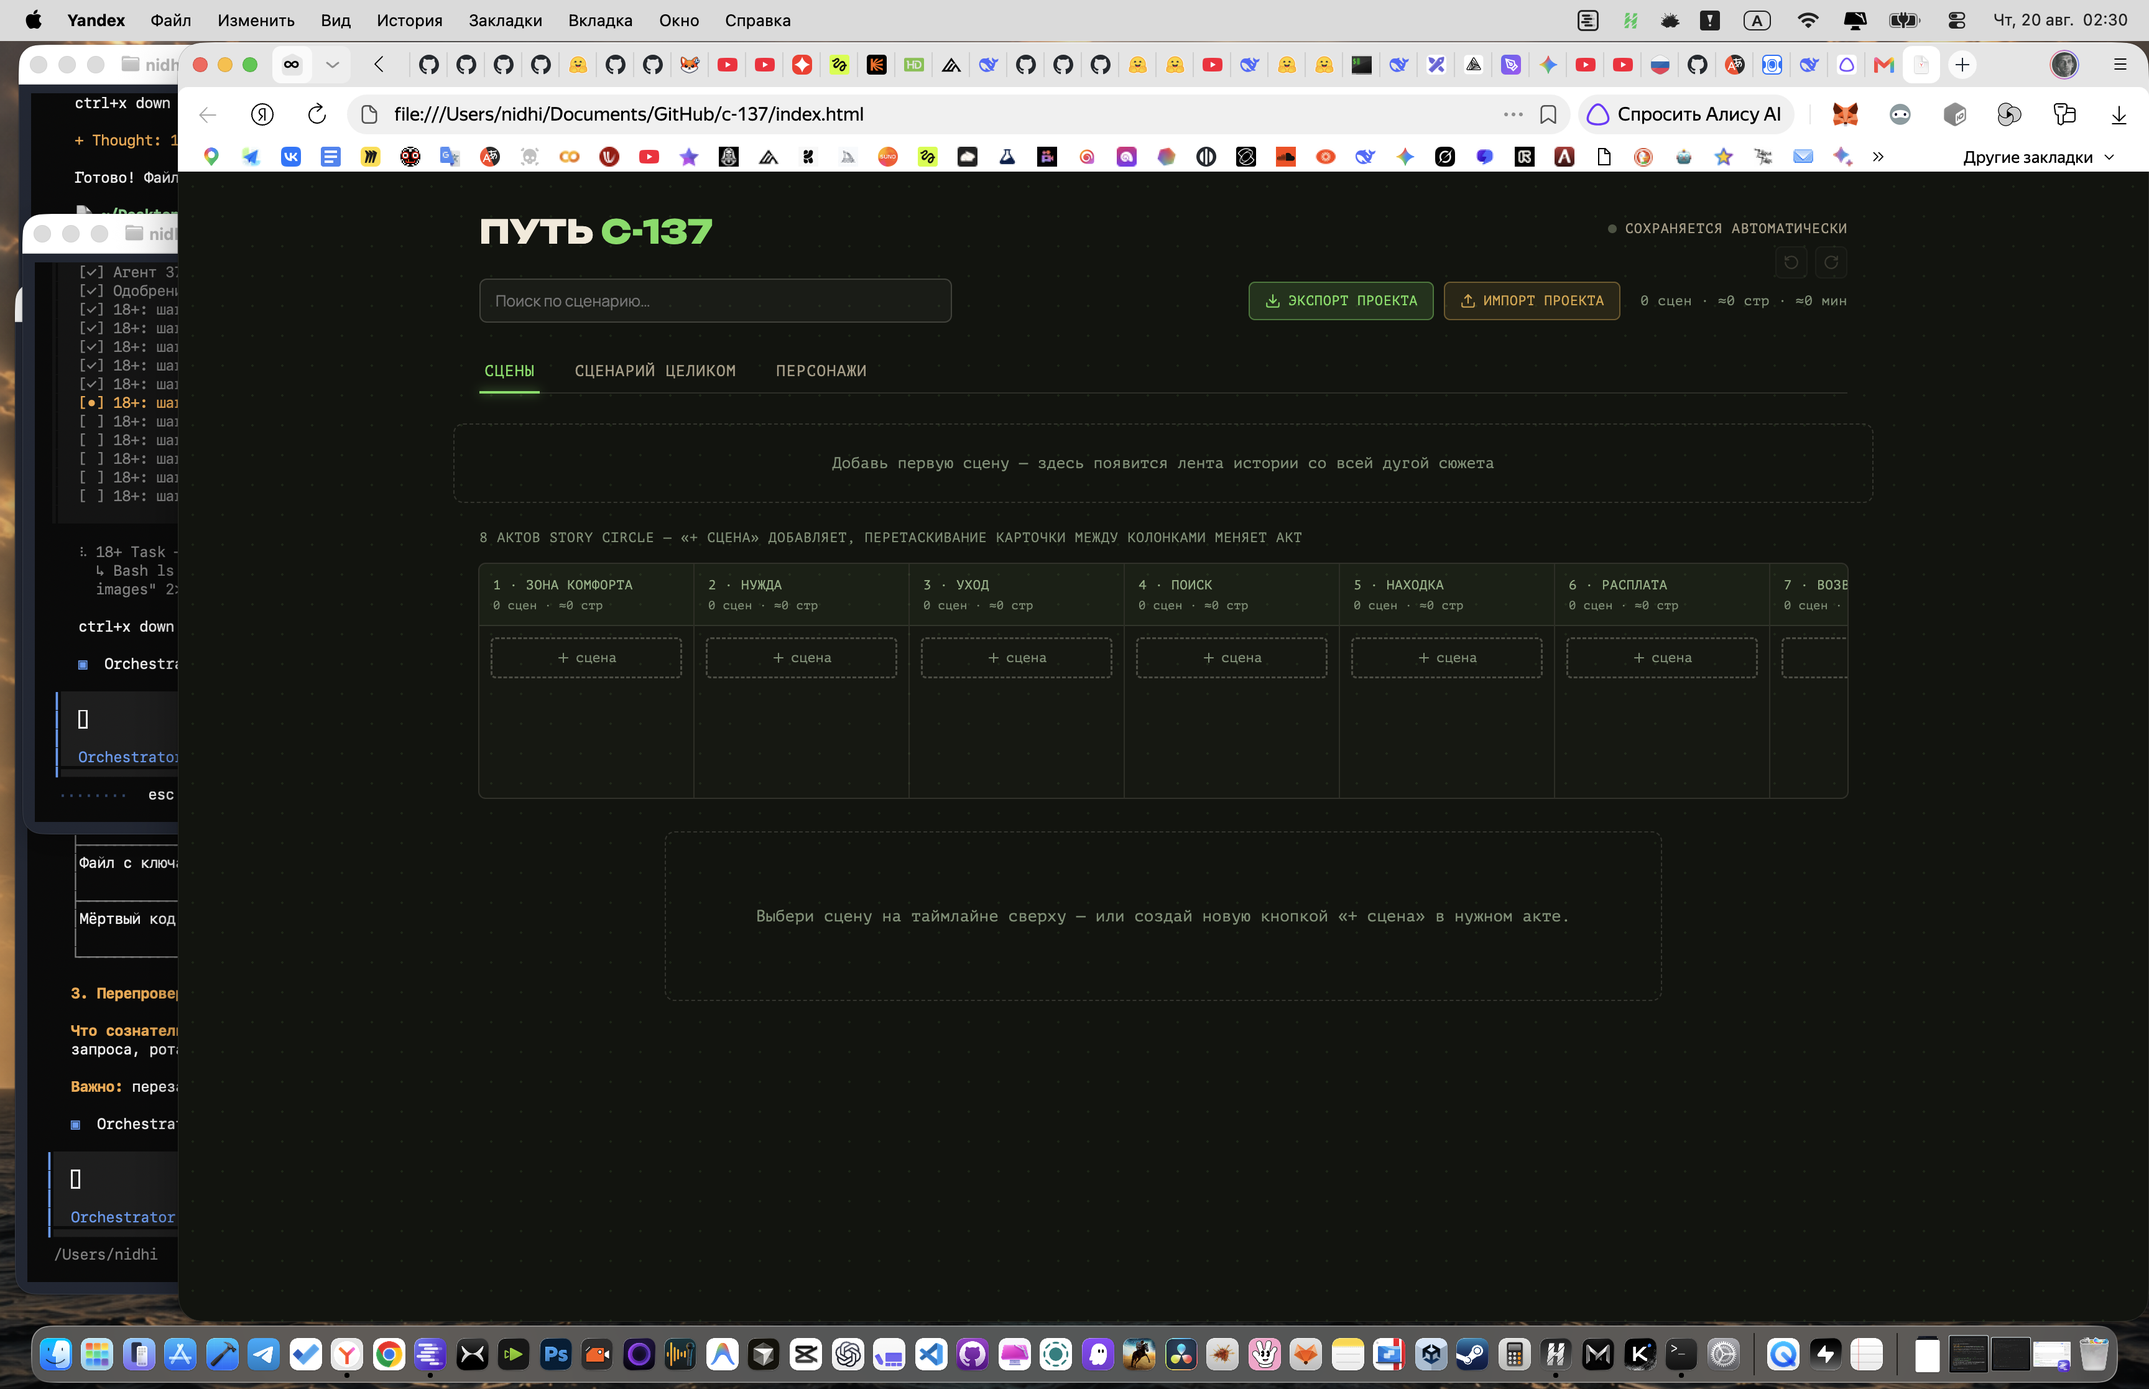
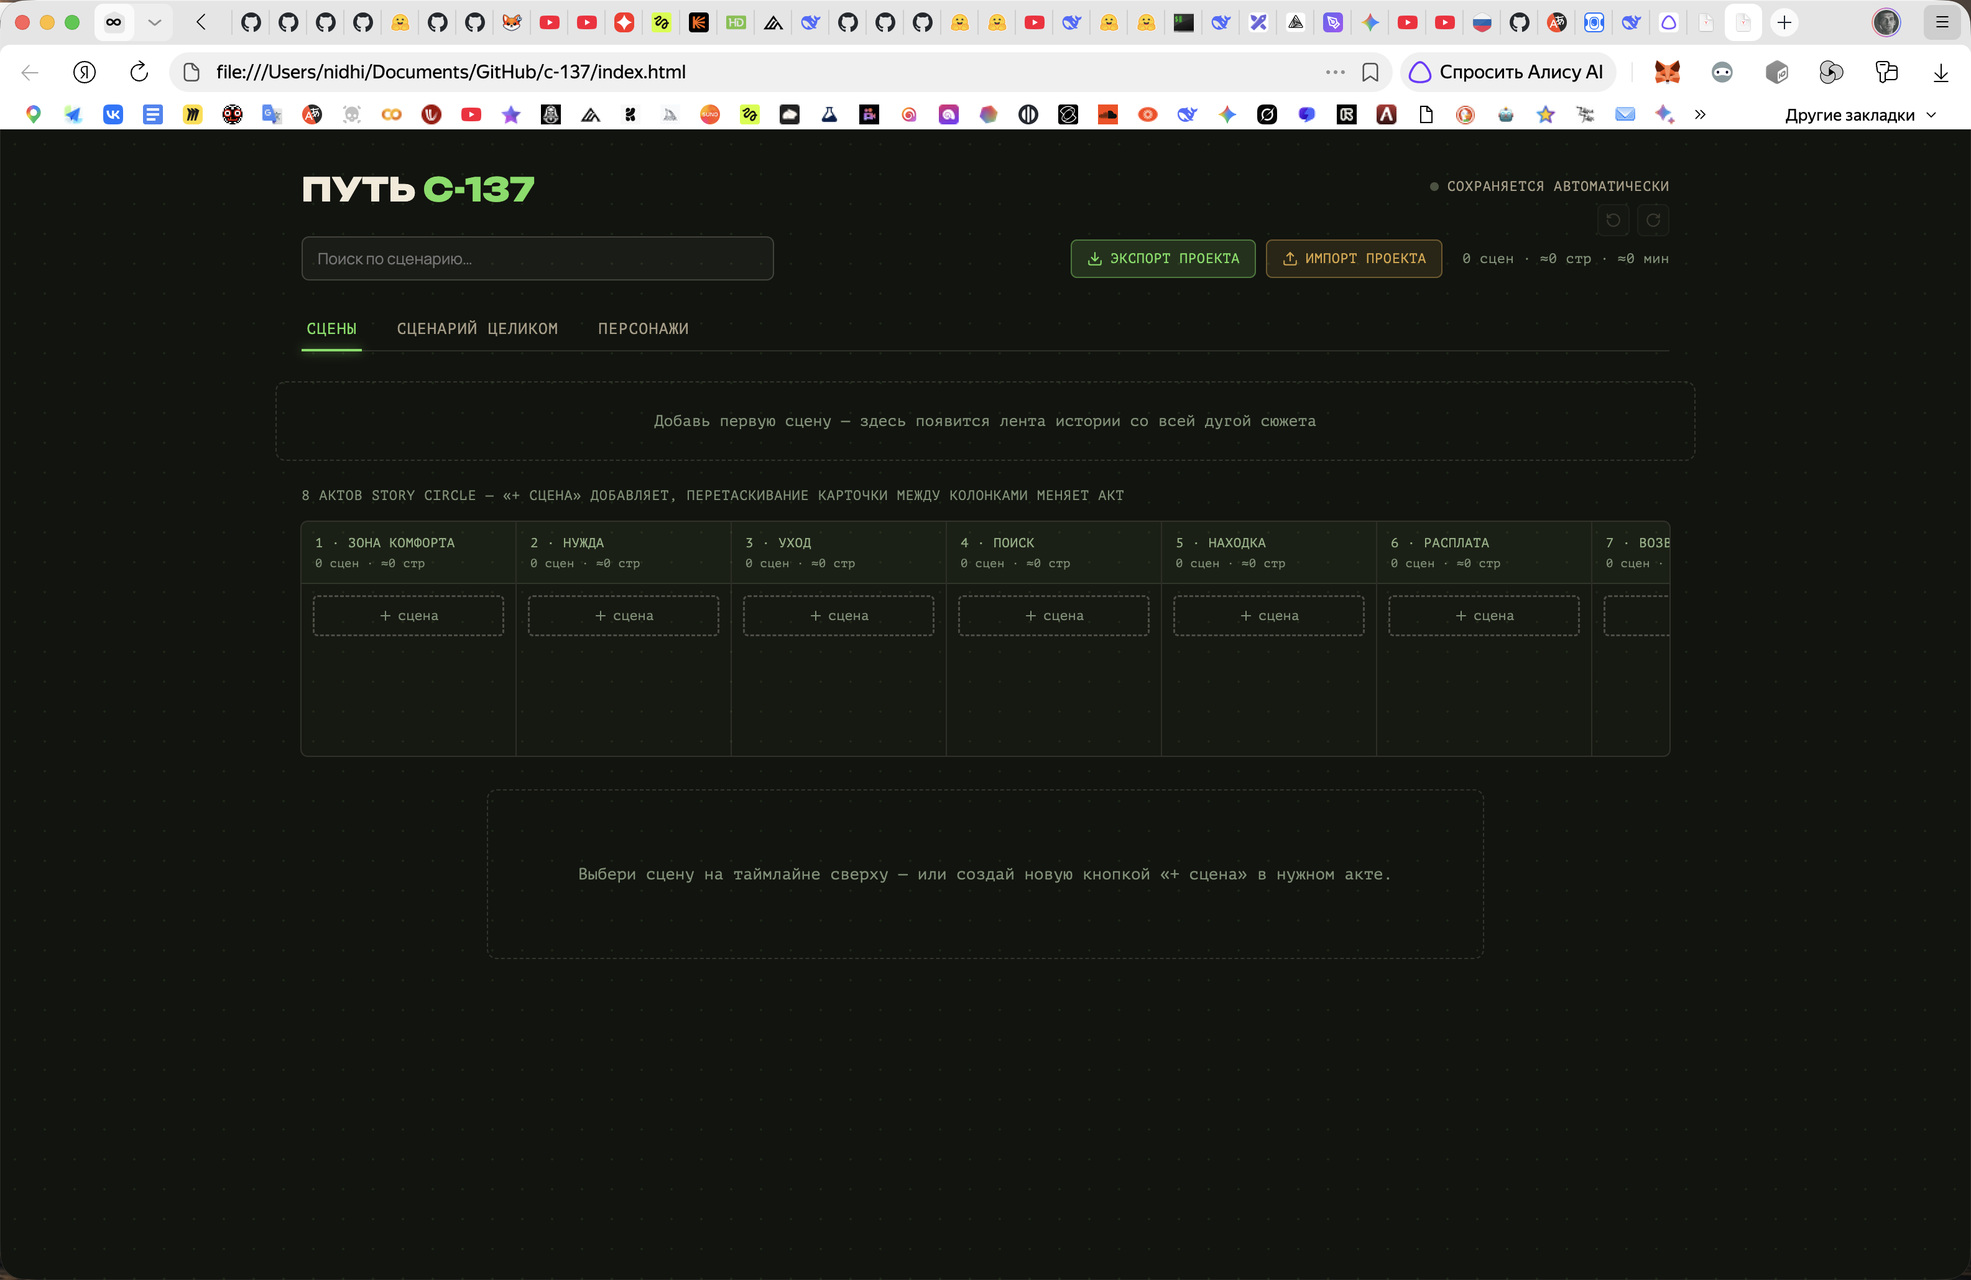
Update UI screenshot (browser window only) and rename app title to C-108

diff --git a/index.html b/index.html
@@ -210,7 +210,7 @@ button:focus-visible, input:focus-visible, textarea:focus-visible, select:focus-
 
 \u0424\u0430\u0439\u043B \u0441\u043E\u0437\u0434\u0430\u043D \u0431\u043E\u043B\u0435\u0435 \u043D\u043E\u0432\u043E\u0439 \u0432\u0435\u0440\u0441\u0438\u0435\u0439 \u043F\u0440\u0438\u043B\u043E\u0436\u0435\u043D\u0438\u044F \u2014 \u0447\u0430\u0441\u0442\u044C \u0434\u0430\u043D\u043D\u044B\u0445 \u043C\u043E\u0436\u0435\u0442 \u043D\u0435 \u0437\u0430\u0433\u0440\u0443\u0437\u0438\u0442\u044C\u0441\u044F.`:"")+`
 
-\u0422\u0435\u043A\u0443\u0449\u0435\u0435 \u0441\u043E\u0441\u0442\u043E\u044F\u043D\u0438\u0435 \u043C\u043E\u0436\u043D\u043E \u0431\u0443\u0434\u0435\u0442 \u0432\u0435\u0440\u043D\u0443\u0442\u044C \u0447\u0435\u0440\u0435\u0437 Ctrl+Z.`;window.confirm(N)&&(await pl(D.scenes,D.characters),h(null),d(null))},ml=n.find(L=>L.id===p)||null,Ye=[];STAGES.forEach((L,k)=>n.filter(D=>D.stage===k).forEach(D=>Ye.push(D)));let Ur=L=>Ye.findIndex(k=>k.id===L)+1,_f=L=>{let k=fa();we([...n,{id:k,stage:L,title:"",heading:"",blocks:[],emotion:50,milestone:!1,note:"",subplot:""}]),h(k)},Vf=()=>{ml&&(we(n.filter(L=>L.id!==ml.id)),h(null))},Wf=(L,k)=>u(D=>D.map(N=>N.id===p?{...N,[L]:k}:N)),Ou=()=>we(n),Gf=L=>we(n.map(k=>k.id===p?{...k,stage:L}:k)),jf=(L,k="")=>we(n.map(D=>D.id===p?{...D,blocks:[...D.blocks,{id:fa(),type:L,text:k}]}:D)),$f=(L,k,D="")=>{let N={id:fa(),type:k,text:D};return we(n.map(U=>{if(U.id!==p)return U;let J=U.blocks.findIndex(lc=>lc.id===L),Ue=[...U.blocks];return Ue.splice(J+1,0,N),{...U,blocks:Ue}})),N.id},Xf=(L,k)=>u(D=>D.map(N=>N.id===p?{...N,blocks:N.blocks.map(U=>U.id===L?{...U,text:k}:U)}:N)),Kf=L=>{n.find(D=>D.id===p)&&we(n.map(D=>D.id===p?{...D,blocks:D.blocks.filter(N=>N.id!==L)}:D))},Qf=(L,k)=>{let D=n.find(U=>U.id===L);if(!D)return;let N=n.filter(U=>U.id!==L);we([...N,{...D,stage:k}])},Jf=(L,k)=>u(D=>D.map(N=>N.id===L?{...N,emotion:k}:N)),Zf=L=>we(n.map(k=>k.id===L?{...k,milestone:!k.milestone}:k)),Nu=L=>{h(L),a("scenes")},Ut=Ye.findIndex(L=>L.id===p),Uu=Ut>0,zu=Ut>=0&&Ut<Ye.length-1,Yf=()=>{Uu&&h(Ye[Ut-1].id)},ec=()=>{zu&&h(Ye[Ut+1].id)},hl=[...new Set(n.map(L=>L.subplot).filter(Boolean))],qu=Ef(n),ac=zm(n,o),tc=Hm(n,o),rc=x[x.length-1]||null,oc=R[R.length-1]||null;return(0,B.useEffect)(()=>{let L=k=>{if(!(k.metaKey||k.ctrlKey)||k.key.toLowerCase()!=="z")return;let D=document.activeElement&&document.activeElement.tagName;D==="INPUT"||D==="TEXTAREA"||(k.preventDefault(),k.shiftKey?bt():Et())};return document.addEventListener("keydown",L),()=>document.removeEventListener("keydown",L)},[Et,bt]),(0,f.jsxs)("div",{className:"rm-root",children:[(0,f.jsx)("style",{children:Jm}),t?(0,f.jsxs)(B.Fragment,{children:[(0,f.jsxs)("header",{className:"rm-header",children:[(0,f.jsx)("div",{children:(0,f.jsxs)("h1",{className:"rm-title",children:["\u041F\u0423\u0422\u042C ",(0,f.jsx)("span",{children:"C-137"})]})}),(0,f.jsxs)("div",{className:"rm-header-right",children:[(0,f.jsxs)("div",{className:"rm-status",children:[(0,f.jsx)("span",{className:`rm-status-dot ${g}`}),g==="saving"?"\u0441\u043E\u0445\u0440\u0430\u043D\u044F\u044E\u2026":g==="saved"?"\u0441\u043E\u0445\u0440\u0430\u043D\u0435\u043D\u043E":"\u0441\u043E\u0445\u0440\u0430\u043D\u044F\u0435\u0442\u0441\u044F \u0430\u0432\u0442\u043E\u043C\u0430\u0442\u0438\u0447\u0435\u0441\u043A\u0438"]}),(0,f.jsx)(fh,{canUndo:x.length>0,undoEntry:rc,onUndo:Et,canRedo:R.length>0,redoEntry:oc,onRedo:bt})]})]}),(0,f.jsxs)("div",{className:"rm-toolbar",children:[(0,f.jsx)(uh,{scenes:n,sceneNumberOf:Ur,onSelectScene:Nu}),(0,f.jsxs)("div",{className:"rm-toolbar-right",children:[(0,f.jsxs)("div",{className:"rm-project-io",children:[(0,f.jsxs)("button",{className:"rm-download-btn",onClick:Ot,children:[(0,f.jsx)(Ft,{size:13})," \u042D\u043A\u0441\u043F\u043E\u0440\u0442 \u043F\u0440\u043E\u0435\u043A\u0442\u0430"]}),(0,f.jsxs)("button",{className:"rm-download-btn import",onClick:Nt,children:[(0,f.jsx)(br,{size:13})," \u0418\u043C\u043F\u043E\u0440\u0442 \u043F\u0440\u043E\u0435\u043A\u0442\u0430"]}),(0,f.jsx)("input",{ref:m,type:"file",accept:"application/json,.json",onChange:ue,style:{display:"none"}})]}),(0,f.jsxs)("span",{className:"rm-runtime-stat",children:[Ye.length," ",Oa(Ye.length,"\u0441\u0446\u0435\u043D\u0430","\u0441\u0446\u0435\u043D\u044B","\u0441\u0446\u0435\u043D")," \xB7 \u2248",qu.pages," \u0441\u0442\u0440 \xB7 \u2248",qu.minutes," \u043C\u0438\u043D"]})]})]}),(0,f.jsxs)("nav",{className:"rm-tabs",children:[(0,f.jsx)("button",{className:`rm-tab ${e==="scenes"?"active":""}`,onClick:()=>a("scenes"),children:"\u0421\u0446\u0435\u043D\u044B"}),(0,f.jsx)("button",{className:`rm-tab ${e==="script"?"active":""}`,onClick:()=>a("script"),children:"\u0421\u0446\u0435\u043D\u0430\u0440\u0438\u0439 \u0446\u0435\u043B\u0438\u043A\u043E\u043C"}),(0,f.jsx)("button",{className:`rm-tab ${e==="characters"?"active":""}`,onClick:()=>a("characters"),children:"\u041F\u0435\u0440\u0441\u043E\u043D\u0430\u0436\u0438"})]}),n.length>0?(0,f.jsxs)(B.Fragment,{children:[(0,f.jsx)("p",{className:"rm-caption",children:"\u041B\u0435\u043D\u0442\u0430 \u0438\u0441\u0442\u043E\u0440\u0438\u0438 \u0446\u0435\u043B\u0438\u043A\u043E\u043C \u2014 \u0442\u044F\u043D\u0438 \u0442\u043E\u0447\u043A\u0438 \u0432\u0432\u0435\u0440\u0445-\u0432\u043D\u0438\u0437, \u0437\u0430\u0434\u0430\u0432\u0430\u044F \u044D\u043C\u043E\u0446\u0438\u043E\u043D\u0430\u043B\u044C\u043D\u044B\u0439 \u043D\u0430\u043A\u0430\u043B; \u2605 \u043E\u0442\u043C\u0435\u0447\u0430\u0435\u0442 \u043E\u0431\u044F\u0437\u0430\u0442\u0435\u043B\u044C\u043D\u044B\u0439 \u043C\u043E\u043C\u0435\u043D\u0442; \u043A\u043B\u0438\u043A \u043F\u043E \u0442\u043E\u0447\u043A\u0435 \u043E\u0442\u043A\u0440\u044B\u0432\u0430\u0435\u0442 \u0441\u0446\u0435\u043D\u0443 \u0432 \u0440\u0435\u0434\u0430\u043A\u0442\u043E\u0440\u0435"}),(0,f.jsx)(th,{scenes:n,activeSceneId:p,sceneNumberOf:Ur,onSelectScene:Nu,onDragEmotion:Jf,onCommitEmotion:Ou,onToggleMilestone:Zf})]}):(0,f.jsx)("p",{className:"rm-ribbon-empty",children:"\u0414\u043E\u0431\u0430\u0432\u044C \u043F\u0435\u0440\u0432\u0443\u044E \u0441\u0446\u0435\u043D\u0443 \u2014 \u0437\u0434\u0435\u0441\u044C \u043F\u043E\u044F\u0432\u0438\u0442\u0441\u044F \u043B\u0435\u043D\u0442\u0430 \u0438\u0441\u0442\u043E\u0440\u0438\u0438 \u0441\u043E \u0432\u0441\u0435\u0439 \u0434\u0443\u0433\u043E\u0439 \u0441\u044E\u0436\u0435\u0442\u0430"}),e==="scenes"&&(0,f.jsxs)(B.Fragment,{children:[(0,f.jsx)("p",{className:"rm-caption",children:"8 \u0430\u043A\u0442\u043E\u0432 Story Circle \u2014 \xAB+ \u0441\u0446\u0435\u043D\u0430\xBB \u0434\u043E\u0431\u0430\u0432\u043B\u044F\u0435\u0442, \u043F\u0435\u0440\u0435\u0442\u0430\u0441\u043A\u0438\u0432\u0430\u043D\u0438\u0435 \u043A\u0430\u0440\u0442\u043E\u0447\u043A\u0438 \u043C\u0435\u0436\u0434\u0443 \u043A\u043E\u043B\u043E\u043D\u043A\u0430\u043C\u0438 \u043C\u0435\u043D\u044F\u0435\u0442 \u0430\u043A\u0442"}),(0,f.jsx)("datalist",{id:"rm-character-names",children:o.map(L=>(0,f.jsx)("option",{value:L.name},L.id))}),(0,f.jsx)(eh,{scenes:n,characters:o,activeSceneId:p,setActiveSceneId:h,addScene:_f,sceneNumberOf:Ur,moveSceneToStage:Qf}),hl.length>0&&(0,f.jsxs)(B.Fragment,{children:[(0,f.jsx)("p",{className:"rm-caption",children:"\u0421\u044E\u0436\u0435\u0442\u043D\u044B\u0435 \u043B\u0438\u043D\u0438\u0438 \u043F\u043E \u0430\u043A\u0442\u0430\u043C \u2014 \u0433\u0434\u0435 \u043B\u0438\u043D\u0438\u044F \u043F\u043E\u044F\u0432\u043B\u044F\u0435\u0442\u0441\u044F \u0438 \u0433\u0434\u0435 \u043F\u0440\u043E\u043F\u0430\u0434\u0430\u0435\u0442 \u0438\u0437 \u0432\u0438\u0434\u0443"}),(0,f.jsx)(ah,{scenes:n,allSubplots:hl})]}),(0,f.jsx)(Ym,{scene:ml,characters:o,allSubplots:hl,updateSceneField:Wf,commitScenes:Ou,setStage:Gf,addBlock:jf,insertBlockAfter:$f,updateBlockText:Xf,deleteBlock:Kf,deleteScene:Vf,onPrev:Yf,onNext:ec,hasPrev:Uu,hasNext:zu})]}),e==="script"&&(0,f.jsx)(rh,{orderedScenes:Ye,sceneNumberOf:Ur,characters:o}),e==="characters"&&(0,f.jsx)(nh,{characters:o,editingId:s,setEditingId:d,updateField:A,commitCharacters:q,addCharacter:Y,deleteCharacter:ca,resetCharacters:Na,stats:ac,edges:tc})]}):(0,f.jsx)("div",{className:"rm-loading-text",children:"\u041F\u0440\u043E\u0433\u0440\u0435\u0432 \u043F\u043E\u0440\u0442\u0430\u043B\u044C\u043D\u043E\u0439 \u043F\u0443\u0448\u043A\u0438\u2026"})]})}var zf=ch;var Hf=pa(Or(),1);if(typeof window<"u"&&!window.storage){let e="rm_writers_board__";window.storage={get:async(a,t)=>{let r=localStorage.getItem(e+a);return r===null?null:{key:a,value:r,shared:!!t}},set:async(a,t,r)=>(localStorage.setItem(e+a,t),{key:a,value:t,shared:!!r}),delete:async(a,t)=>{let r=localStorage.getItem(e+a)!==null;return localStorage.removeItem(e+a),{key:a,deleted:r,shared:!!t}},list:async(a,t)=>{let r=[];for(let o=0;o<localStorage.length;o++){let l=localStorage.key(o);if(l&&l.startsWith(e)){let n=l.slice(e.length);(!a||n.startsWith(a))&&r.push(n)}}return{keys:r,prefix:a,shared:!!t}}}}var ph=document.getElementById("root");(0,qf.createRoot)(ph).render((0,Hf.jsx)(zf,{}));})();
+\u0422\u0435\u043A\u0443\u0449\u0435\u0435 \u0441\u043E\u0441\u0442\u043E\u044F\u043D\u0438\u0435 \u043C\u043E\u0436\u043D\u043E \u0431\u0443\u0434\u0435\u0442 \u0432\u0435\u0440\u043D\u0443\u0442\u044C \u0447\u0435\u0440\u0435\u0437 Ctrl+Z.`;window.confirm(N)&&(await pl(D.scenes,D.characters),h(null),d(null))},ml=n.find(L=>L.id===p)||null,Ye=[];STAGES.forEach((L,k)=>n.filter(D=>D.stage===k).forEach(D=>Ye.push(D)));let Ur=L=>Ye.findIndex(k=>k.id===L)+1,_f=L=>{let k=fa();we([...n,{id:k,stage:L,title:"",heading:"",blocks:[],emotion:50,milestone:!1,note:"",subplot:""}]),h(k)},Vf=()=>{ml&&(we(n.filter(L=>L.id!==ml.id)),h(null))},Wf=(L,k)=>u(D=>D.map(N=>N.id===p?{...N,[L]:k}:N)),Ou=()=>we(n),Gf=L=>we(n.map(k=>k.id===p?{...k,stage:L}:k)),jf=(L,k="")=>we(n.map(D=>D.id===p?{...D,blocks:[...D.blocks,{id:fa(),type:L,text:k}]}:D)),$f=(L,k,D="")=>{let N={id:fa(),type:k,text:D};return we(n.map(U=>{if(U.id!==p)return U;let J=U.blocks.findIndex(lc=>lc.id===L),Ue=[...U.blocks];return Ue.splice(J+1,0,N),{...U,blocks:Ue}})),N.id},Xf=(L,k)=>u(D=>D.map(N=>N.id===p?{...N,blocks:N.blocks.map(U=>U.id===L?{...U,text:k}:U)}:N)),Kf=L=>{n.find(D=>D.id===p)&&we(n.map(D=>D.id===p?{...D,blocks:D.blocks.filter(N=>N.id!==L)}:D))},Qf=(L,k)=>{let D=n.find(U=>U.id===L);if(!D)return;let N=n.filter(U=>U.id!==L);we([...N,{...D,stage:k}])},Jf=(L,k)=>u(D=>D.map(N=>N.id===L?{...N,emotion:k}:N)),Zf=L=>we(n.map(k=>k.id===L?{...k,milestone:!k.milestone}:k)),Nu=L=>{h(L),a("scenes")},Ut=Ye.findIndex(L=>L.id===p),Uu=Ut>0,zu=Ut>=0&&Ut<Ye.length-1,Yf=()=>{Uu&&h(Ye[Ut-1].id)},ec=()=>{zu&&h(Ye[Ut+1].id)},hl=[...new Set(n.map(L=>L.subplot).filter(Boolean))],qu=Ef(n),ac=zm(n,o),tc=Hm(n,o),rc=x[x.length-1]||null,oc=R[R.length-1]||null;return(0,B.useEffect)(()=>{let L=k=>{if(!(k.metaKey||k.ctrlKey)||k.key.toLowerCase()!=="z")return;let D=document.activeElement&&document.activeElement.tagName;D==="INPUT"||D==="TEXTAREA"||(k.preventDefault(),k.shiftKey?bt():Et())};return document.addEventListener("keydown",L),()=>document.removeEventListener("keydown",L)},[Et,bt]),(0,f.jsxs)("div",{className:"rm-root",children:[(0,f.jsx)("style",{children:Jm}),t?(0,f.jsxs)(B.Fragment,{children:[(0,f.jsxs)("header",{className:"rm-header",children:[(0,f.jsx)("div",{children:(0,f.jsxs)("h1",{className:"rm-title",children:["\u041F\u0423\u0422\u042C ",(0,f.jsx)("span",{children:"C-108"})]})}),(0,f.jsxs)("div",{className:"rm-header-right",children:[(0,f.jsxs)("div",{className:"rm-status",children:[(0,f.jsx)("span",{className:`rm-status-dot ${g}`}),g==="saving"?"\u0441\u043E\u0445\u0440\u0430\u043D\u044F\u044E\u2026":g==="saved"?"\u0441\u043E\u0445\u0440\u0430\u043D\u0435\u043D\u043E":"\u0441\u043E\u0445\u0440\u0430\u043D\u044F\u0435\u0442\u0441\u044F \u0430\u0432\u0442\u043E\u043C\u0430\u0442\u0438\u0447\u0435\u0441\u043A\u0438"]}),(0,f.jsx)(fh,{canUndo:x.length>0,undoEntry:rc,onUndo:Et,canRedo:R.length>0,redoEntry:oc,onRedo:bt})]})]}),(0,f.jsxs)("div",{className:"rm-toolbar",children:[(0,f.jsx)(uh,{scenes:n,sceneNumberOf:Ur,onSelectScene:Nu}),(0,f.jsxs)("div",{className:"rm-toolbar-right",children:[(0,f.jsxs)("div",{className:"rm-project-io",children:[(0,f.jsxs)("button",{className:"rm-download-btn",onClick:Ot,children:[(0,f.jsx)(Ft,{size:13})," \u042D\u043A\u0441\u043F\u043E\u0440\u0442 \u043F\u0440\u043E\u0435\u043A\u0442\u0430"]}),(0,f.jsxs)("button",{className:"rm-download-btn import",onClick:Nt,children:[(0,f.jsx)(br,{size:13})," \u0418\u043C\u043F\u043E\u0440\u0442 \u043F\u0440\u043E\u0435\u043A\u0442\u0430"]}),(0,f.jsx)("input",{ref:m,type:"file",accept:"application/json,.json",onChange:ue,style:{display:"none"}})]}),(0,f.jsxs)("span",{className:"rm-runtime-stat",children:[Ye.length," ",Oa(Ye.length,"\u0441\u0446\u0435\u043D\u0430","\u0441\u0446\u0435\u043D\u044B","\u0441\u0446\u0435\u043D")," \xB7 \u2248",qu.pages," \u0441\u0442\u0440 \xB7 \u2248",qu.minutes," \u043C\u0438\u043D"]})]})]}),(0,f.jsxs)("nav",{className:"rm-tabs",children:[(0,f.jsx)("button",{className:`rm-tab ${e==="scenes"?"active":""}`,onClick:()=>a("scenes"),children:"\u0421\u0446\u0435\u043D\u044B"}),(0,f.jsx)("button",{className:`rm-tab ${e==="script"?"active":""}`,onClick:()=>a("script"),children:"\u0421\u0446\u0435\u043D\u0430\u0440\u0438\u0439 \u0446\u0435\u043B\u0438\u043A\u043E\u043C"}),(0,f.jsx)("button",{className:`rm-tab ${e==="characters"?"active":""}`,onClick:()=>a("characters"),children:"\u041F\u0435\u0440\u0441\u043E\u043D\u0430\u0436\u0438"})]}),n.length>0?(0,f.jsxs)(B.Fragment,{children:[(0,f.jsx)("p",{className:"rm-caption",children:"\u041B\u0435\u043D\u0442\u0430 \u0438\u0441\u0442\u043E\u0440\u0438\u0438 \u0446\u0435\u043B\u0438\u043A\u043E\u043C \u2014 \u0442\u044F\u043D\u0438 \u0442\u043E\u0447\u043A\u0438 \u0432\u0432\u0435\u0440\u0445-\u0432\u043D\u0438\u0437, \u0437\u0430\u0434\u0430\u0432\u0430\u044F \u044D\u043C\u043E\u0446\u0438\u043E\u043D\u0430\u043B\u044C\u043D\u044B\u0439 \u043D\u0430\u043A\u0430\u043B; \u2605 \u043E\u0442\u043C\u0435\u0447\u0430\u0435\u0442 \u043E\u0431\u044F\u0437\u0430\u0442\u0435\u043B\u044C\u043D\u044B\u0439 \u043C\u043E\u043C\u0435\u043D\u0442; \u043A\u043B\u0438\u043A \u043F\u043E \u0442\u043E\u0447\u043A\u0435 \u043E\u0442\u043A\u0440\u044B\u0432\u0430\u0435\u0442 \u0441\u0446\u0435\u043D\u0443 \u0432 \u0440\u0435\u0434\u0430\u043A\u0442\u043E\u0440\u0435"}),(0,f.jsx)(th,{scenes:n,activeSceneId:p,sceneNumberOf:Ur,onSelectScene:Nu,onDragEmotion:Jf,onCommitEmotion:Ou,onToggleMilestone:Zf})]}):(0,f.jsx)("p",{className:"rm-ribbon-empty",children:"\u0414\u043E\u0431\u0430\u0432\u044C \u043F\u0435\u0440\u0432\u0443\u044E \u0441\u0446\u0435\u043D\u0443 \u2014 \u0437\u0434\u0435\u0441\u044C \u043F\u043E\u044F\u0432\u0438\u0442\u0441\u044F \u043B\u0435\u043D\u0442\u0430 \u0438\u0441\u0442\u043E\u0440\u0438\u0438 \u0441\u043E \u0432\u0441\u0435\u0439 \u0434\u0443\u0433\u043E\u0439 \u0441\u044E\u0436\u0435\u0442\u0430"}),e==="scenes"&&(0,f.jsxs)(B.Fragment,{children:[(0,f.jsx)("p",{className:"rm-caption",children:"8 \u0430\u043A\u0442\u043E\u0432 Story Circle \u2014 \xAB+ \u0441\u0446\u0435\u043D\u0430\xBB \u0434\u043E\u0431\u0430\u0432\u043B\u044F\u0435\u0442, \u043F\u0435\u0440\u0435\u0442\u0430\u0441\u043A\u0438\u0432\u0430\u043D\u0438\u0435 \u043A\u0430\u0440\u0442\u043E\u0447\u043A\u0438 \u043C\u0435\u0436\u0434\u0443 \u043A\u043E\u043B\u043E\u043D\u043A\u0430\u043C\u0438 \u043C\u0435\u043D\u044F\u0435\u0442 \u0430\u043A\u0442"}),(0,f.jsx)("datalist",{id:"rm-character-names",children:o.map(L=>(0,f.jsx)("option",{value:L.name},L.id))}),(0,f.jsx)(eh,{scenes:n,characters:o,activeSceneId:p,setActiveSceneId:h,addScene:_f,sceneNumberOf:Ur,moveSceneToStage:Qf}),hl.length>0&&(0,f.jsxs)(B.Fragment,{children:[(0,f.jsx)("p",{className:"rm-caption",children:"\u0421\u044E\u0436\u0435\u0442\u043D\u044B\u0435 \u043B\u0438\u043D\u0438\u0438 \u043F\u043E \u0430\u043A\u0442\u0430\u043C \u2014 \u0433\u0434\u0435 \u043B\u0438\u043D\u0438\u044F \u043F\u043E\u044F\u0432\u043B\u044F\u0435\u0442\u0441\u044F \u0438 \u0433\u0434\u0435 \u043F\u0440\u043E\u043F\u0430\u0434\u0430\u0435\u0442 \u0438\u0437 \u0432\u0438\u0434\u0443"}),(0,f.jsx)(ah,{scenes:n,allSubplots:hl})]}),(0,f.jsx)(Ym,{scene:ml,characters:o,allSubplots:hl,updateSceneField:Wf,commitScenes:Ou,setStage:Gf,addBlock:jf,insertBlockAfter:$f,updateBlockText:Xf,deleteBlock:Kf,deleteScene:Vf,onPrev:Yf,onNext:ec,hasPrev:Uu,hasNext:zu})]}),e==="script"&&(0,f.jsx)(rh,{orderedScenes:Ye,sceneNumberOf:Ur,characters:o}),e==="characters"&&(0,f.jsx)(nh,{characters:o,editingId:s,setEditingId:d,updateField:A,commitCharacters:q,addCharacter:Y,deleteCharacter:ca,resetCharacters:Na,stats:ac,edges:tc})]}):(0,f.jsx)("div",{className:"rm-loading-text",children:"\u041F\u0440\u043E\u0433\u0440\u0435\u0432 \u043F\u043E\u0440\u0442\u0430\u043B\u044C\u043D\u043E\u0439 \u043F\u0443\u0448\u043A\u0438\u2026"})]})}var zf=ch;var Hf=pa(Or(),1);if(typeof window<"u"&&!window.storage){let e="rm_writers_board__";window.storage={get:async(a,t)=>{let r=localStorage.getItem(e+a);return r===null?null:{key:a,value:r,shared:!!t}},set:async(a,t,r)=>(localStorage.setItem(e+a,t),{key:a,value:t,shared:!!r}),delete:async(a,t)=>{let r=localStorage.getItem(e+a)!==null;return localStorage.removeItem(e+a),{key:a,deleted:r,shared:!!t}},list:async(a,t)=>{let r=[];for(let o=0;o<localStorage.length;o++){let l=localStorage.key(o);if(l&&l.startsWith(e)){let n=l.slice(e.length);(!a||n.startsWith(a))&&r.push(n)}}return{keys:r,prefix:a,shared:!!t}}}}var ph=document.getElementById("root");(0,qf.createRoot)(ph).render((0,Hf.jsx)(zf,{}));})();
 /*! Bundled license information:
 
 react/cjs/react.production.min.js:
